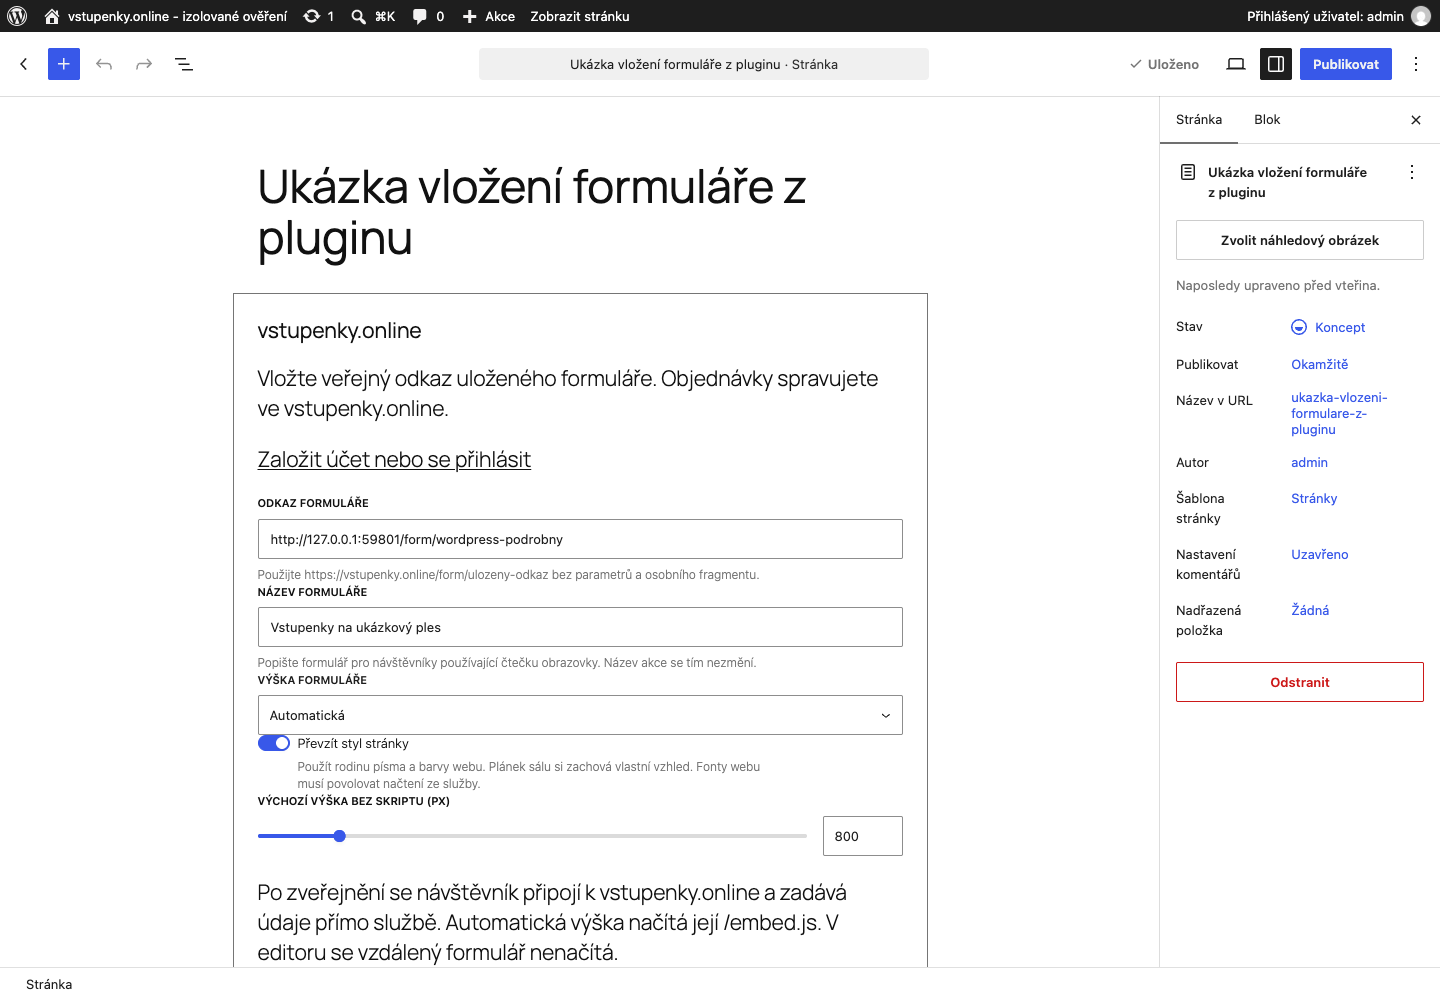
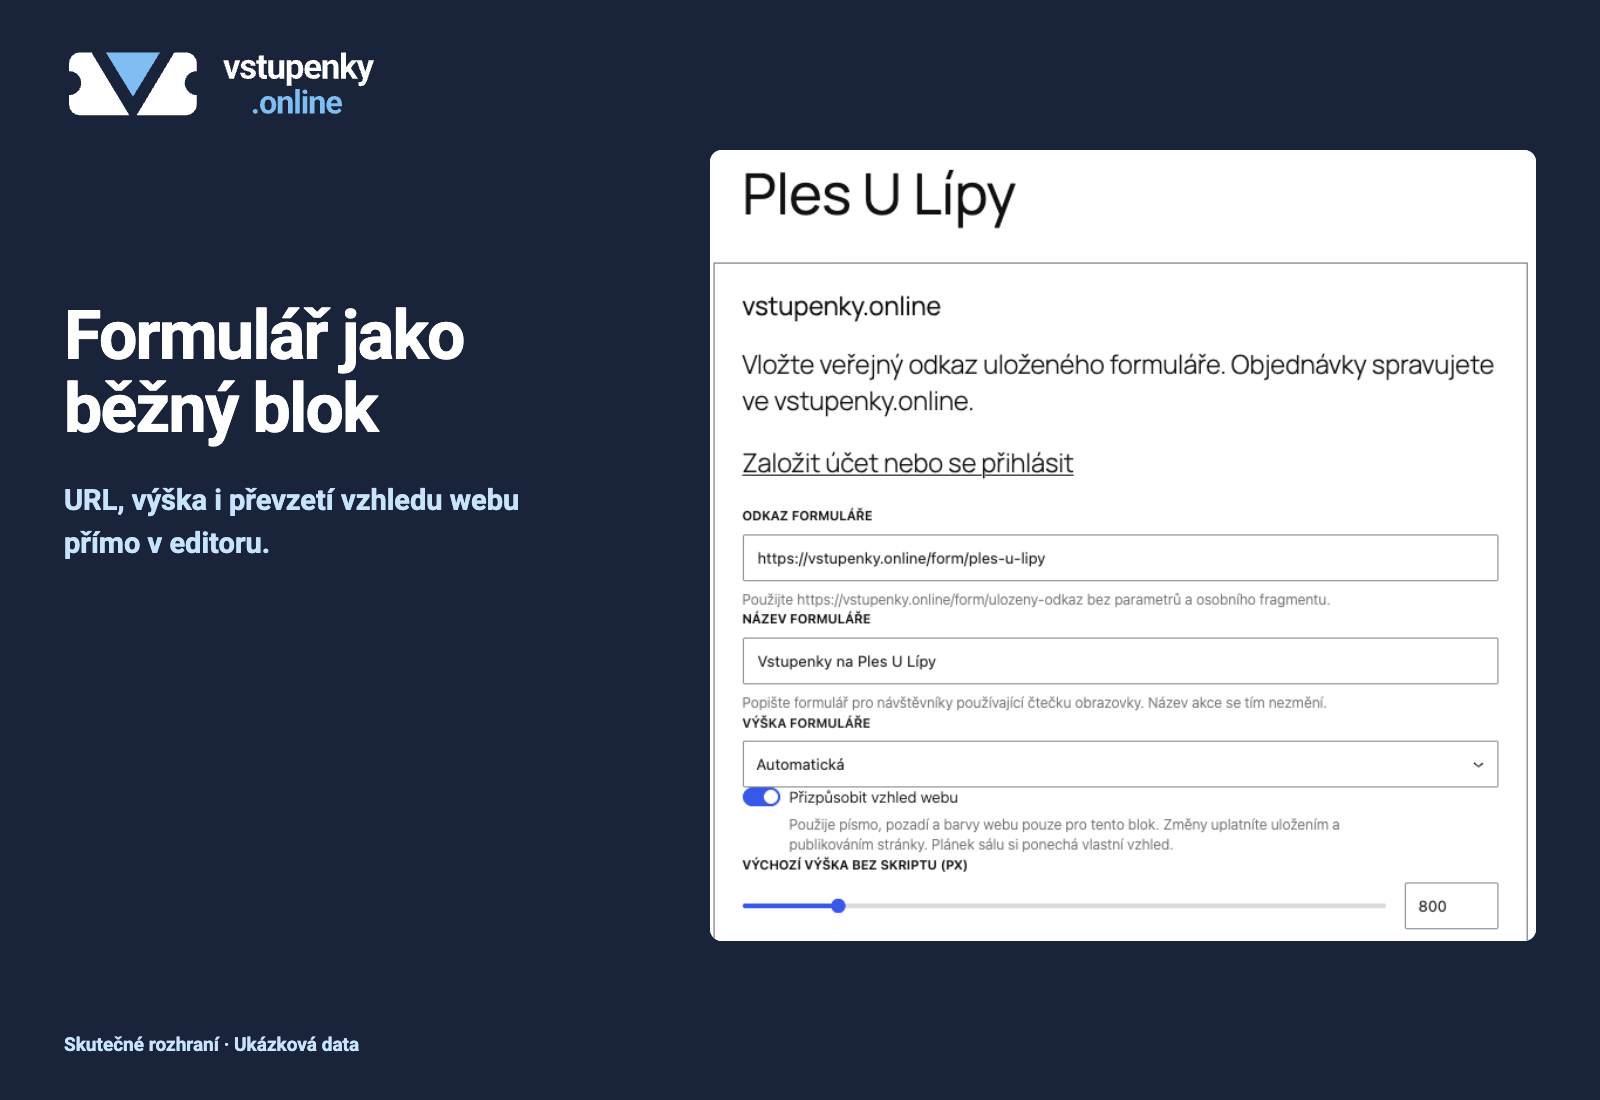
Polish WordPress catalog with canonical branding and real captures

diff --git a/integrations/wordpress/catalog/artwork.html b/integrations/wordpress/catalog/artwork.html
@@ -1,3 +1,21 @@
-<!doctype html><html lang="cs"><meta charset="utf-8"><title>vstupenky.online - podklady katalogu</title><style>
-*{box-sizing:border-box}html,body{margin:0;width:100%;height:100%;overflow:hidden;background:#253759;color:white;font-family:system-ui,-apple-system,sans-serif}.art{height:100%;display:flex;align-items:center;gap:7vw;padding:6vw}.ticket{width:22%;flex:none;fill:none;stroke:#80bdf2;stroke-width:6;stroke-linecap:round;stroke-linejoin:round}h1{font-size:5.1vw;letter-spacing:-.03em;margin:0 0 2vw}p{font-size:2.4vw;line-height:1.35;margin:0;max-width:32ch}.icon .art{padding:15%;justify-content:center}.icon .ticket{width:100%}.icon section{display:none}
-</style><body><div class="art"><svg class="ticket" viewBox="0 0 160 130" aria-label="Vstupenka" role="img"><path d="M15 25H145V53C126 53 126 77 145 77V105H15V77C34 77 34 53 15 53Z"/><path d="M100 26V40M100 54V66M100 80V104M50 53L60 64L80 43"/></svg><section><h1>vstupenky.online</h1><p>Prodej vstupenek na vašem webu</p></section></div><script>const q=new URLSearchParams(location.search);if(q.get('kind')==='icon')document.body.classList.add('icon');if(q.get('product')==='festapp-tickets'){document.documentElement.lang='en';document.title='Festapp Tickets - directory artwork';document.querySelector('h1').textContent='Festapp Tickets';document.querySelector('p').textContent='Event tickets on your website';document.querySelector('svg').setAttribute('aria-label','Ticket');document.querySelector('svg').style.stroke='#a5e1d2';}</script></body></html>
+<!doctype html>
+<html lang="cs"><head><meta charset="utf-8"><title>vstupenky.online - katalog WordPress</title>
+<style>
+@font-face{font-family:Brand;src:url('../../../assets/brand/vstupenky-online/source/Roboto-Bold.ttf');font-weight:700;font-display:block}
+*{box-sizing:border-box}html,body{margin:0;width:100%;height:100%;overflow:hidden;background:#19243b;color:#fff;font-family:Brand,sans-serif}#art{width:1600px;height:1100px;position:absolute;transform-origin:top left;background:#19243b}.brand{position:absolute;left:64px;top:48px;width:330px;height:auto}.copy{position:absolute;left:64px;top:300px;width:580px}h1{font-size:68px;line-height:1.08;letter-spacing:-.025em;margin:0 0 32px;text-wrap:balance}p{font-size:29px;line-height:1.5;color:#c8e4fc;margin:0;max-width:30ch}.foot{position:absolute;left:64px;bottom:44px;color:#c8e4fc;font-size:19px}.capture{position:absolute;display:block;object-fit:contain;background:#fff;border-radius:12px}.onboard{left:860px;top:56px;width:640px;height:970px}.editor{left:710px;top:150px;width:826px;height:791px}.desktop{left:740px;top:56px;width:796px;height:994px}.mobile-a,.mobile-b{top:54px;width:378px;height:972px}.mobile-a{left:736px;height:942px}.mobile-b{left:1150px}.seats{left:740px;top:56px;width:796px;height:994px;object-fit:contain}.wide .copy{top:147px;left:64px;width:1460px;display:flex;align-items:start;gap:70px}.wide h1{font-size:51px;width:780px;margin:0}.wide p{font-size:26px;width:540px}.wide .brand{width:290px;top:28px}.wide .foot{display:none}.banner #art{width:1544px;height:500px}.banner .brand{left:432px;top:48px;width:680px}.banner .copy{left:100px;top:257px;width:1344px;text-align:center}.banner h1{font-size:58px;margin:0 0 23px}.banner p{font-size:29px;max-width:none}.banner .foot{display:none}.icon #art{width:256px;height:256px}.icon .brand{left:0;top:0;width:256px;height:256px}.icon .copy,.icon .foot{display:none}
+</style></head><body><main id="art"><img class="brand" src="../../../assets/brand/vstupenky-online/vstupenky-online-header-dark.svg" alt="vstupenky.online"><div class="copy"><h1></h1><p></p></div><div class="foot">Skutečné rozhraní · Ukázková data</div></main>
+<script>
+const q=new URLSearchParams(location.search);
+if(q.get('product')==='festapp-tickets')location.replace('festapp-tickets/artwork.html'+location.search);
+const kind=q.get('kind')||'banner',art=document.getElementById('art');document.body.className=kind;
+const shots={
+1:['Začněte ve WordPressu','Připravte formulář, vložte blok a zveřejněte stránku.',['cs-onboarding-cards.png','onboard']],
+2:['Formulář jako běžný blok','URL, výška i převzetí vzhledu webu přímo v editoru.',['cs-editor-crop.png','editor']],
+3:['Prodej přímo ve stránce','Vaše akce a objednávkový formulář na jednom místě.',['cs-desktop-crop.png','desktop']],
+4:['I na malém displeji','Dva formuláře na jedné stránce. Skutečný náhled v mobilním Chromu.',['cs-mobile-top-crop.png','mobile-a'],['cs-mobile-second.png','mobile-b']],
+5:['Výběr míst přímo ve formuláři','Návštěvník si vybere místo v plánku sálu.',['cs-seats-crop.png','seats']]};
+if(kind==='icon'){document.querySelector('.brand').src='../../../assets/brand/vstupenky-online/vstupenky-online-icon-dark.svg'}
+else if(kind==='shot'){const s=shots[q.get('shot')]||shots[1];document.querySelector('h1').textContent=s[0];document.querySelector('p').textContent=s[1];for(const [src,cls] of s.slice(2)){const img=document.createElement('img');img.src='source/'+src;img.className='capture '+cls;img.alt=s[0];art.append(img)}}
+else{document.querySelector('h1').textContent='Vstupenky na Vašem webu';document.querySelector('p').textContent='Nativní blok a shortcode pro WordPress'}
+function resize(){const w=kind==='banner'?1544:kind==='icon'?256:1600,h=kind==='banner'?500:kind==='icon'?256:1100;art.style.transform='scale('+Math.min(innerWidth/w,innerHeight/h)+')'}resize();addEventListener('resize',resize);
+</script></body></html>

diff --git a/integrations/wordpress/catalog/festapp-tickets/artwork.html b/integrations/wordpress/catalog/festapp-tickets/artwork.html
@@ -1,0 +1,3 @@
+<!doctype html><html lang="cs"><meta charset="utf-8"><title>vstupenky.online - podklady katalogu</title><style>
+*{box-sizing:border-box}html,body{margin:0;width:100%;height:100%;overflow:hidden;background:#253759;color:white;font-family:system-ui,-apple-system,sans-serif}.art{height:100%;display:flex;align-items:center;gap:7vw;padding:6vw}.ticket{width:22%;flex:none;fill:none;stroke:#80bdf2;stroke-width:6;stroke-linecap:round;stroke-linejoin:round}h1{font-size:5.1vw;letter-spacing:-.03em;margin:0 0 2vw}p{font-size:2.4vw;line-height:1.35;margin:0;max-width:32ch}.icon .art{padding:15%;justify-content:center}.icon .ticket{width:100%}.icon section{display:none}
+</style><body><div class="art"><svg class="ticket" viewBox="0 0 160 130" aria-label="Vstupenka" role="img"><path d="M15 25H145V53C126 53 126 77 145 77V105H15V77C34 77 34 53 15 53Z"/><path d="M100 26V40M100 54V66M100 80V104M50 53L60 64L80 43"/></svg><section><h1>vstupenky.online</h1><p>Prodej vstupenek na vašem webu</p></section></div><script>const q=new URLSearchParams(location.search);if(q.get('kind')==='icon')document.body.classList.add('icon');if(q.get('product')==='festapp-tickets'){document.documentElement.lang='en';document.title='Festapp Tickets - directory artwork';document.querySelector('h1').textContent='Festapp Tickets';document.querySelector('p').textContent='Event tickets on your website';document.querySelector('svg').setAttribute('aria-label','Ticket');document.querySelector('svg').style.stroke='#a5e1d2';}</script></body></html>

diff --git a/integrations/wordpress/catalog/preview.html b/integrations/wordpress/catalog/preview.html
@@ -1,0 +1,1 @@
+<!doctype html><html lang="cs"><meta charset="utf-8"><meta name="viewport" content="width=device-width"><title>vstupenky.online - katalog doplňku</title><style>body{margin:0;background:#19243b;color:white;font:18px/1.5 sans-serif}main{max-width:1100px;margin:auto;padding:32px 20px}h1{font-size:28px}img{display:block;width:100%;height:auto;margin:24px 0 48px}a{color:#80bdf2}.icon{width:96px}</style><main><h1>vstupenky.online pro WordPress</h1><p>Kanonický branding a skutečné české rozhraní s ukázkovými daty.</p><a href="https://wordpress.org/plugins/vstupenky-online/">Otevřít doplněk na WordPress.org</a><img class="icon" src="icon-256x256.png" alt="Ikona vstupenky.online"><img src="banner-1544x500.png" alt="Vstupenky na Vašem webu"><img src="screenshot-1.png" alt="Začněte ve WordPressu" loading="lazy"><img src="screenshot-2.png" alt="Nastavení nativního bloku" loading="lazy"><img src="screenshot-3.png" alt="Formulář na zveřejněné stránce" loading="lazy"><img src="screenshot-4.png" alt="Dva formuláře na mobilu" loading="lazy"><img src="screenshot-5.png" alt="Výběr místa v sále" loading="lazy"></main></html>

diff --git a/integrations/wordpress/SUBMISSION.md b/integrations/wordpress/SUBMISSION.md
@@ -1,3 +1,33 @@
+# vstupenky.online - WordPress.org vydání
+
+## Schválený hosting - 2026-11-06
+
+WordPress.org schválil hosting po kontrole verze 1.0.3. Účet vydavatele je
+`festappnet`, přidělený slug `vstupenky-online` a SVN repozitář
+`https://plugins.svn.wordpress.org/vstupenky-online/`. Nová žádost není potřeba;
+reviewer nežádá další opravy ani odpověď na schvalovací e-mail.
+
+Aktuální hotové vydání **1.0.4** obsahuje nativní volbu vzhledu a zachovává
+opravené `Requires at least: 6.6`. Zdroj i GitHub ZIP jsou v kanonickém mainu.
+Veřejné katalogové vydání proběhlo přes SVN v revizi 3787697.
+Aktuální výsledek a veřejné readbacky zaznamenává
+`evidence/directory-release-20261106.json`.
+
+Před publikací se porovnává přesný ZIP se zdroji, `trunk`, `tags/1.0.4` a devíti
+katalogovými assets. `scripts/verify-submission.py --product vstupenky-online
+--submit-ready` musí projít proti aktuálnímu technickému sealu. Publikuje se
+pouze česká distribuce, bez vnitřního RELEASE.json, testů či přístupových údajů.
+Neměnit již vydané tagy. Po commitu ověřit veřejnou stránku, katalogové API,
+stažitelný ZIP a jeho souborové hashe. Zpoždění indexace vyhledávání není totéž
+co neúspěšné vydání.
+
+SVN má samostatné aplikační heslo uložené v šifrované macOS Klíčence. Pracovní
+kopie smí být jen mode 0600; nesmí jít do repozitáře, argumentů procesů nebo logů.
+Používat `--password-from-stdin --no-auth-cache`. iCloud synchronizace není
+potvrzena, lokální Klíčenka byla ověřena zpětným načtením.
+
+## Historické podání a review před schválením
+
 # vstupenky.online - podklady pro WordPress.org
 
 **Review 2026-10-27:** WordPress.org vyžádal shodné `Requires at least: 6.6`

diff --git a/integrations/wordpress/READINESS.md b/integrations/wordpress/READINESS.md
@@ -1,3 +1,23 @@
+# vstupenky.online - publikovatelnost
+
+## Vydání 1.0.4 po schválení hostingu - 2026-11-06
+
+Hosting žádosti byl schválen po review 1.0.3. Publikovaný GitHub ZIP 1.0.4 má
[1 lines of base64/hex data omitted]
+z kanonického mainu `70acaaea3b4ab6cac0458ab8e4178c2f8cbe54b5`.
+
+Před SVN publikací prošel Plugin Check 2.1.0 na WordPress 6.6/PHP 7.4.33:
+0 errors a 1 známý warning na `load_plugin_textdomain`, ponechaný pro samostatnou
+ZIP distribuci. WPCS 3.4.1: 0 errors, 0 warnings. Všech 12 kontrolovaných souborů
+nainstalovaného doplňku odpovídá vydanému ZIPu. Dříve ověřené kontrakty 1.0.4
+zůstávají platné; runtime kód se od nich nezměnil. Následná kontrola v izolovaném systémovém Chromu potvrdila Gutenberg
+false/save/reopen i true/save/reopen. Prázdný canvas byl omezením testovacího
+Chromia, bez změny runtime doplňku. Doklad: `catalog/source/PROVENANCE.txt`.
+
+Přesné vstupy a důkazy: `evidence/directory-readiness-20261106.json`.
+Skutečný stav veřejného vydání: `evidence/directory-release-20261106.json`.
+Následující říjnové záznamy jsou historické a nemění aktuální schválení.
+
 # vstupenky.online - kontrola publikovatelnosti
 
 ## Připravená oprava kanonického odkazu 1.0.2

diff --git a/integrations/wordpress/catalog/README.md b/integrations/wordpress/catalog/README.md
@@ -1,0 +1,13 @@
+# Katalog vstupenky.online pro WordPress
+
+Zdrojem identity je `assets/brand/vstupenky-online/`: schválený široký znak V bez hlavy, původní SVG wordmark, navy #19243b a blue #80bdf2. Nevytvářet alternativní logo. Náhled `preview.html` i renderer `artwork.html` fungují přímo přes `file://` bez serveru.
+
+Export po načtení místních fontů a všech obrázků:
+
+- `artwork.html?kind=banner`: viewport 1544x500 a 772x250.
+- `artwork.html?kind=icon`: viewport 256x256 a 128x128.
+- `artwork.html?kind=shot&shot=1` až `5`: viewport 1600x1100.
+
+Výstup je PNG s DPR 1. Pět screenshotů zachovává význam a pořadí popisků vydaného readme 1.0.4. Zdrojové snímky v `source/` zachycují skutečný český WordPress a lokální jednorázový formulář s ukázkovými daty. Výřezy jsou pouze oříznuté originály; text a barvy rozhraní se nepřekreslují. Marketingový text je mimo snímek. Mobilní náhledy jsou Chrome, nikoli Safari.
+
+Publikovat pouze devět schválených katalogových PNG do SVN `/assets/`. Neměnit vydaný `trunk`, tag 1.0.4 ani původní technický seal. Samostatný důkaz aktualizace je v `../evidence/catalog-refresh-20261106.json`. Globální Festapp Tickets obrázky zůstávají beze změny; `?product=festapp-tickets` zachovává předchozí renderer.

diff --git a/integrations/wordpress/README.md b/integrations/wordpress/README.md
@@ -1,5 +1,18 @@
 # vstupenky.online a Festapp Tickets pro WordPress
 
+Oficiální české vydání **1.0.4** je dostupné v
+[katalogu WordPress.org](https://wordpress.org/plugins/vstupenky-online/).
+SVN revize 3787697 obsahuje trunk, neměnný tag 1.0.4 a katalogové obrázky;
+veřejný ZIP odpovídá všemi 12 soubory připravenému vydání a instalace přímo
+z katalogu prošla na WordPress 6.6/PHP 7.4.33. [Publikační důkaz](evidence/directory-release-20261106.json).
+
+Katalogová grafika byla následně obnovena v SVN revizi **3787773**: kanonické
+V logo, oba bannery a pět skutečných českých screenshotů. Všech devět veřejných
+obrázků odpovídá schváleným hashům. Doplněk zůstává 1.0.4, bez změny ZIPu či
+vydaného tagu. [Důkaz aktualizace](evidence/catalog-refresh-20261106.json) a
+[lokální přehled](catalog/preview.html).
+Globální varianta se tímto krokem nevydává.
+
 [Zkušenosti z review](REVIEW-LESSONS.md) zaznamenávají přehlédnutá pravidla a jejich
 prevenci. Sémantiku minimální WP verze hlídá generátor i ověření zapečetěného ZIPu;
 regresní případy lze spustit `python3 scripts/test_metadata_contract.py`.
